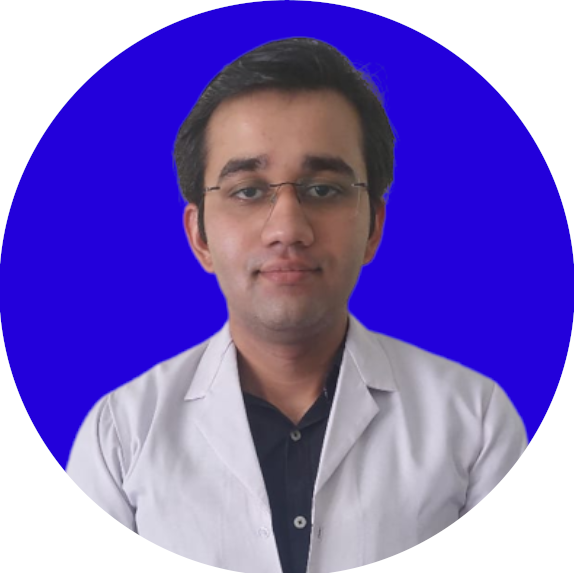
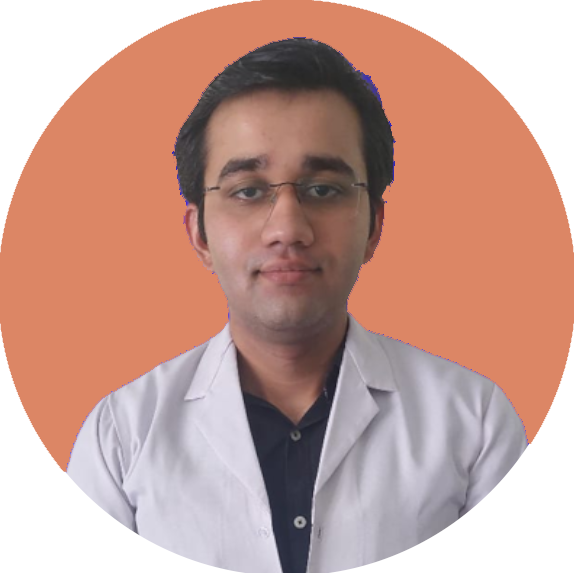
v0.12.6 - Modifications and Renovations of Website allong with Bug Fixing

diff --git a/assets/scss/styles.scss b/assets/scss/styles.scss
@@ -1,10 +1,11 @@
 $color_1: rgb(117, 117, 116);
 $color_2: black;
 $color_3: white;
-$color_4: rgb(32, 78, 165);
+$color_4: #DC8665;
+$color_5: #EEB462;
 $background-color_1: white;
 $background-color_2: rgb(0, 208, 90);
-$background-color_3: rgb(32, 78, 165);
+$background-color_3: #DC8665;
 
 #abt-us-section {
 	padding-top: 100px;
@@ -52,6 +53,9 @@ $background-color_3: rgb(32, 78, 165);
 	height: 20px;
 }
 .abt-text-color {
+	color: $color_5;
+}
+.abt-color{
 	color: $color_1;
 }
 #status-color {
@@ -98,7 +102,7 @@ $background-color_3: rgb(32, 78, 165);
 	color: $color_3;
 	cursor: pointer;
 	justify-content: center;
-	border: 1px solid rgb(32, 78, 165);
+	border: 1px solid #DC8665;
 	&:hover {
 		background-color: $background-color_1;
 		color: $color_4;
@@ -106,17 +110,17 @@ $background-color_3: rgb(32, 78, 165);
 }
 #abt-btn {
 	transition: 0.25s ease-in-out 0.1s;
-	&:hover {
-		justify-content: center;
-		background-color: $background-color_3;
-		color: $color_3;
-	}
 	cursor: pointer;
-	color: $color_4;
+	color: $color_1;
 	padding: 2vh 3vw;
 	background-color: $background-color_1;
-	border: 1px solid rgb(32, 78, 165);
+	border: 1px solid $color_1;
 	border-radius: 15px;
+
+	&:hover{
+		color:#DC8665;
+		border: 1px solid #DC8665;
+	}
 }
 
 

diff --git a/assets/css/styles.css b/assets/css/styles.css
@@ -42,6 +42,9 @@
   height: 20px; }
 
 .abt-text-color {
+  color: #EEB462; }
+
+.abt-color {
   color: #757574; }
 
 #status-color {
@@ -82,25 +85,24 @@
   transition: 0.25s ease-in-out 0.1s;
   padding: 2vh 3vw;
   margin-right: 40px;
-  background-color: #204ea5;
+  background-color: #DC8665;
   border-radius: 15px;
   color: white;
   cursor: pointer;
   justify-content: center;
-  border: 1px solid #204ea5; }
+  border: 1px solid #DC8665; }
   #apt-btn:hover {
     background-color: white;
-    color: #204ea5; }
+    color: #DC8665; }
 
 #abt-btn {
   transition: 0.25s ease-in-out 0.1s;
   cursor: pointer;
-  color: #204ea5;
+  color: #757574;
   padding: 2vh 3vw;
   background-color: white;
-  border: 1px solid #204ea5;
+  border: 1px solid #757574;
   border-radius: 15px; }
   #abt-btn:hover {
-    justify-content: center;
-    background-color: #204ea5;
-    color: white; }
+    color: #DC8665;
+    border: 1px solid #DC8665; }

diff --git a/assets/scss/_home.scss b/assets/scss/_home.scss
@@ -3,6 +3,7 @@ $color_2: var(--color-light-grey);
 $color_3: white;
 $color_4: #DC8665;
 $color_5: #777;
+$color_6: #EEB462;
 $background-color_1: #ffebcf;
 $background-color_2: #EEB462;
 $background-color_3: #DC8665;
@@ -133,7 +134,7 @@ body {
 	text-align: center;
 	font-weight: 600;
 	margin: 10px 0;
-	color: $color_4;
+	color: $color_6;
 }
 
 

diff --git a/assets/css/autotyping.css b/assets/css/autotyping.css
@@ -4,7 +4,7 @@
 
 .division-text-container .division-text {
   position: relative;
-  color: var(--color-dark-grey);
+  color: #EEB462;
   font-weight: 600; }
 
 .division-text-container .division-text.first-text {

diff --git a/assets/scss/autotyping.scss b/assets/scss/autotyping.scss
@@ -4,7 +4,7 @@
 }
 .division-text-container .division-text{
     position: relative;
-    color: var(--color-dark-grey);
+    color: #EEB462;
     // font-size: 30px;
     font-weight: 600;
 }

diff --git a/assets/css/_home.css b/assets/css/_home.css
@@ -109,6 +109,6 @@ body {
   text-align: center;
   font-weight: 600;
   margin: 10px 0;
-  color: #DC8665; }
+  color: #EEB462; }
 
 /* Services Styling Ends here*/
